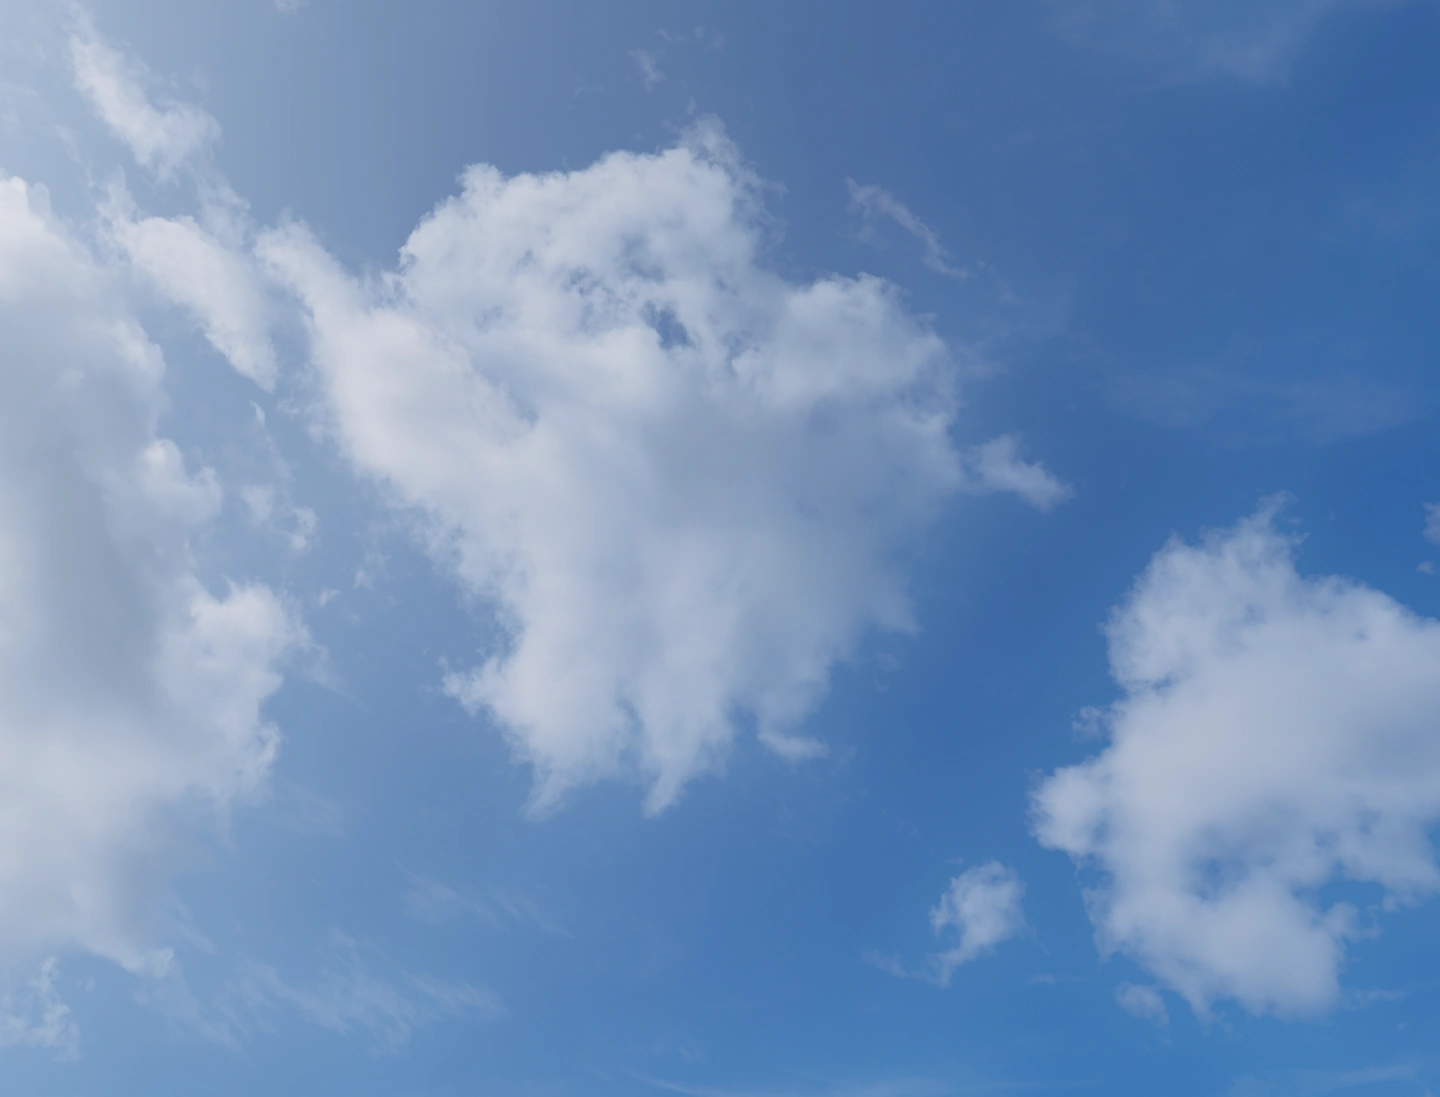
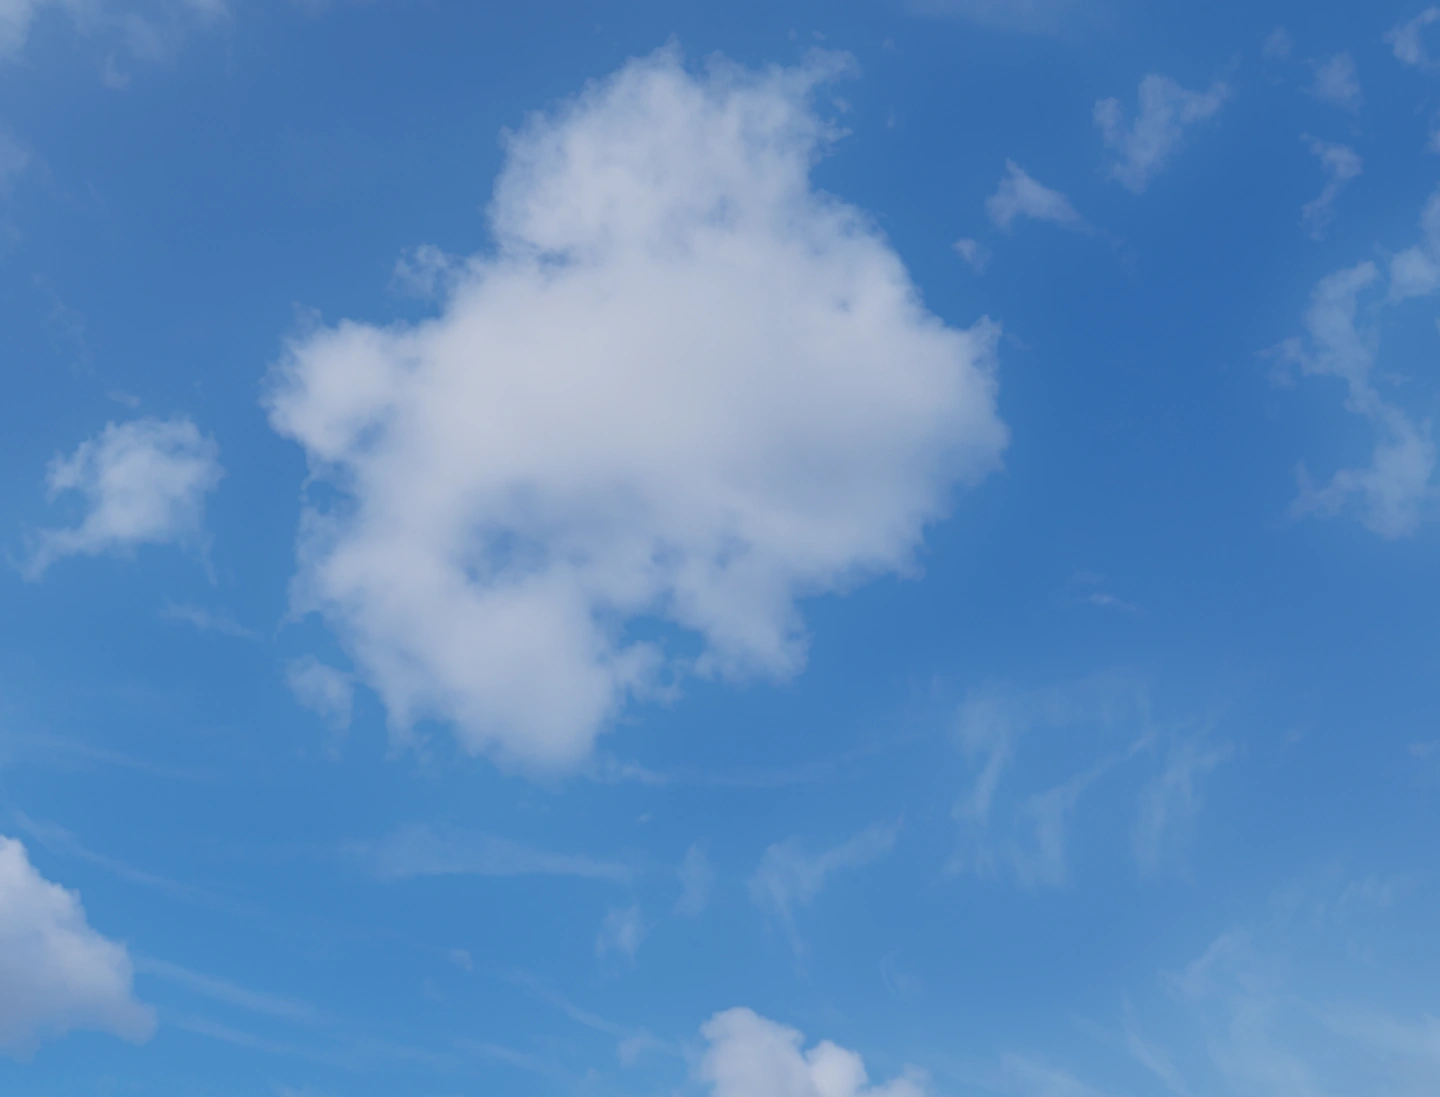
Lab: climb tenki round 1
Claude-Session: https://claude.ai/code/session_01RqENhngNCzDFmJWDZueXGV

diff --git a/src/app/lab/tenki/tenkiEngine.js b/src/app/lab/tenki/tenkiEngine.js
@@ -37,7 +37,8 @@ import { createFilm, FILM_PRESETS } from "../_kit/film";
 // cumulus, is the default sky; 0 clear low sun, 1 cirrus, 2 mackerel,
 // 3 fair-weather cumulus); ?t=7..18.5 holds the hour; ?still=1 skips the
 // reveal; ?grain=0 for static grain; ?raw=1 the light without the film;
-// ?dbg=1 grey albedo, 2 sun visibility, 3 sun only, 4 albedo.
+// ?dbg=1 grey albedo, 2 sun visibility, 3 sun only, 4 albedo, 5 the light on
+// the clouds.
 
 const BASE = "/lab/tenki/";
 const SKY_FILES = ["clear", "cirrus", "mackerel", "cumulus", "tower"];
@@ -68,6 +69,22 @@ const AUREOLE = 0.6;
 const CLOUD_WARM = 2;
 const CLOUD_FILL = 0.25;
 const CLOUD_SKY = [0.78, 0.97, 1.32];
+// A cloud with form (herb-ref 3): its sunlit side in the beam, at a scene
+// value the film's shoulder carries to ~0.93 (CLOUD_SUN, through the soft
+// shoulder at CLOUD_KNEE); its shade side and base in the zenith's blue
+// skylight (CLOUD_SHADE x CLOUD_BASE); CLOUD_TAU how fast the beam is used up
+// going into the body; CLOUD_AIR the light a lit cloud lends the air round it.
+// FORM: how far each sky takes it (a veiled sun leaves its clouds flatter).
+const CLOUD_SUN = 2.0;
+const CLOUD_KNEE = 1.5;
+const CLOUD_SHADE = 0.24;
+const CLOUD_BASE = [0.55, 0.86, 1.7];
+const CLOUD_TAU = 3.4;
+const CLOUD_AIR = 0.05;
+const FORM = { clear: 1, cirrus: 0.6, mackerel: 0.35, cumulus: 1, tower: 1 };
+// Where each sky's haze ends and its cloud begins, in the picture's red / blue:
+// the fair-weather sky is milky blue between its cumulus, the tower sky clean.
+const MASK = { clear: [0.5, 0.75], cirrus: [0.6, 0.95], mackerel: [0.6, 0.92], cumulus: [0.72, 0.97], tower: [0.45, 0.86] };
 // The HDRIs are open-field skies. Lying in a residential street, the pole
 // sees the sun but not the whole sky: houses, wires and trees take the lower
 // band of it (a sky-view factor of ~0.6 for a vertical face in a street of
@@ -219,8 +236,11 @@ uniform vec3 uOldSun;     // the photo's own sun and sky colours (luminance 1)
 uniform vec3 uOldSky;
 uniform vec3 uVeil;       // the lens's veiling glare in the photograph (linear)
 uniform vec3 uKeyDir;     // the dominant sun now (camera space), for the clouds
-uniform vec3 uCloudTint;  // cloud colour now / under a high sun
-uniform float uRim;       // strength of the sun side of each cloud
+uniform vec3 uCloudSun;   // the beam on a cloud's sunlit side (scene units)
+uniform vec3 uCloudSky;   // the blue skylight on its shade side and base
+uniform vec3 uCloudFlat;  // a flat cloud's tint (a veiled sun)
+uniform vec4 uCloudForm;  // optical depth, highlight shoulder, form, air glow
+uniform vec2 uCloudMask;  // red / blue of the sky picture: haze below, cloud above
 uniform float uSkyDim;    // the blue sky's light now / at the recorded hour
 uniform float uExpo;      // reveal exposure, linear factor
 uniform float uLinearOut;
@@ -294,10 +314,17 @@ vec2 skyUv(vec3 ds) {
   return vec2(0.5) + vec2(ds.x / -ds.z, -ds.y / -ds.z) * uFx / uSize / uMargin;
 }
 
-// how much of a sky pixel is cloud: white against the polarised cobalt
+// how much of a sky pixel is cloud: white against the polarised cobalt (each
+// sky says where its haze ends and its cloud begins)
 float cloudAt(vec2 su, float lod) {
   vec3 v = textureLod(uSky0, su, lod).rgb * uSkyK.x + textureLod(uSky1, su, lod).rgb * uSkyK.y;
-  return smoothstep(0.42, 0.86, v.r / max(v.b, 1e-3));
+  return smoothstep(uCloudMask.x, uCloudMask.y, v.r / max(v.b, 1e-3));
+}
+
+// the sky picture's brightness (scene units), a little blurred
+float lumAt(vec2 su, float lod) {
+  vec3 v = decodeSky(textureLod(uSky0, su, lod).rgb) * uSkyK.x + decodeSky(textureLod(uSky1, su, lod).rgb) * uSkyK.y;
+  return dot(v, vec3(0.2126, 0.7152, 0.0722));
 }
 
 void main() {
@@ -309,29 +336,62 @@ void main() {
   vec3 ds = rot(d, uUp, uDrift);
   vec2 su = clamp(skyUv(ds), vec2(0.001), vec2(0.999));
   vec3 sky = decodeSky(texture(uSky0, su).rgb) * uSkyK.x + decodeSky(texture(uSky1, su).rgb) * uSkyK.y;
-  // the clouds take the hour's sun: the side of each cloud that faces it
-  // lifts in the sun's colour, the side away from it falls to skylight blue
-  {
+  // The clouds are lit, not pasted: each is a body the hour's sun falls on.
+  // Its light is marched through the cloud field toward the sun (in the sky
+  // picture's own plane, the way a cumulus shades itself), so the side that
+  // faces the sun takes the beam in its colour and the far side and the base
+  // fall to the blue zenith skylight. The picture's own drawing is kept as
+  // relative detail, and the tops roll into a soft shoulder that glows but
+  // never clips. (Only where there is cloud, and sky to see it through.)
+  vec4 f = texture(uFg, pu);
+  // a soft edge: the cloud's own feathering, not a cut-out
+  float c = 0.5 * (cloudAt(su, 0.0) + cloudAt(su, 1.5));
+  // how deep in the body: the inside of a big cloud sees less of the sky
+  float body = cloudAt(su, 5.0);
+  if (f.a > 0.998 || c + body < 0.002) {
+    sky *= uSkyDim;
+  } else {
     vec3 Ls = rot(uKeyDir, uUp, uDrift);
     vec2 sb = skyUv(normalize(ds + 0.04 * (Ls - ds * dot(ds, Ls))));
     vec2 toSun = sb - skyUv(ds);
     toSun /= max(length(toSun), 1e-6);
-    vec2 o = vec2(5.0) / vec2(textureSize(uSky0, 0));
-    float c = cloudAt(su, 0.0);
-    vec2 g = vec2(cloudAt(su + vec2(o.x, 0.0), 2.0) - cloudAt(su - vec2(o.x, 0.0), 2.0),
-                  cloudAt(su + vec2(0.0, o.y), 2.0) - cloudAt(su - vec2(0.0, o.y), 2.0));
-    float face = -dot(g, toSun) * 3.0;
-    float lit = clamp(face, 0.0, 1.0);
-    float shd = clamp(-face, 0.0, 1.0);
-    vec3 cl = sky * uCloudTint;
-    cl *= 1.0 + uRim * lit * normalize(uCloudTint) * 1.732;
-    cl *= mix(vec3(1.0), vec3(0.78, 0.86, 1.0), uRim * shd);
-    // the blue between them is skylight, and dims with it; the clouds are
-    // lit by the sun, and go with the key
-    sky = mix(sky * uSkyDim, cl, c);
+    // the light into a cumulus is the sun's, and the bright sky above it: the
+    // march leans toward the zenith, so the base is the darkest part of it
+    vec2 toUp = skyUv(normalize(ds + 0.04 * (uUp - ds * dot(ds, uUp)))) - skyUv(ds);
+    vec2 toLight = normalize(toSun + 0.6 * toUp / max(length(toUp), 1e-6));
+    float tau = 0.0;
+    for (int i = 0; i < 16; i++) {
+      float t = (float(i) + 0.5) / 16.0;
+      tau += cloudAt(su + toLight * (0.004 + 0.34 * t), 2.0 + 1.5 * t);
+    }
+    // a wisp is thin: the beam goes through it and it has no shade side
+    float thick = smoothstep(0.3, 0.85, cloudAt(su, 3.0));
+    float T = mix(1.0, exp(-uCloudForm.x * tau / 16.0), thick);
+    const vec3 LW = vec3(0.2126, 0.7152, 0.0722);
+    vec3 sl = decodeSky(textureLod(uSky0, su, 4.0).rgb) * uSkyK.x + decodeSky(textureLod(uSky1, su, 4.0).rgb) * uSkyK.y;
+    float lm = max(dot(sl, LW), 1e-4);
+    float detail = pow(clamp(dot(sky, LW) / lm, 0.7, 1.6), 1.2);
+    // and each lobe of it its own lit side: the slope of the cloud's own
+    // brightness toward the sun, a few texels across
+    vec2 o = vec2(6.0) / vec2(textureSize(uSky0, 0));
+    vec2 g = vec2(lumAt(su + vec2(o.x, 0.0), 2.0) - lumAt(su - vec2(o.x, 0.0), 2.0),
+                  lumAt(su + vec2(0.0, o.y), 2.0) - lumAt(su - vec2(0.0, o.y), 2.0)) / lm;
+    vec2 g2 = vec2(lumAt(su + vec2(3.0 * o.x, 0.0), 3.5) - lumAt(su - vec2(3.0 * o.x, 0.0), 3.5),
+                   lumAt(su + vec2(0.0, 3.0 * o.y), 3.5) - lumAt(su - vec2(0.0, 3.0 * o.y), 3.5)) / lm;
+    float lobe = clamp(-dot(4.0 * g + 3.0 * g2, toSun), -1.0, 1.0) * c * (0.4 + 0.6 * thick);
+    vec3 cl = detail * (uCloudSky * (1.0 - 0.35 * body) * (1.0 - 0.4 * lobe) + uCloudSun * (0.08 + T) * (1.0 + 0.9 * lobe));
+    // a soft highlight shoulder: the sunlit tops approach the film's near-white
+    float Lc = dot(cl, LW);
+    cl *= pow(1.0 + pow(Lc / uCloudForm.y, 4.0), -0.25);
+    // the old flat cloud, for a sky that asks for less form (a veiled sun)
+    cl = mix(sky * uCloudFlat, cl, uCloudForm.z);
+    // the blue between them is skylight, and dims with it; round a lit cloud
+    // it takes a breath of the cloud's light (the air in front of it)
+    vec3 blue = sky * uSkyDim + uCloudSun * uCloudForm.w * body * (1.0 - c);
+    sky = mix(blue, cl, c);
+    if (abs(uDbg - 5.0) < 0.5) sky = vec3(T * c * (1.0 + 0.9 * lobe) * 0.5);
   }
 
-  vec4 f = texture(uFg, pu);
   vec3 col = sky;
   if (f.a > 0.002) {
     vec4 nd = texture(uNd, pu);
@@ -768,6 +828,11 @@ export async function createTenki(host, { embedded = false } = {}) {
   const spread = new Float32Array(2);
   const keyDir = [0, 1, 0];
   const cloudTint = [1, 1, 1];
+  const cloudSun = [1, 1, 1];
+  const cloudSky = [1, 1, 1];
+  const cloudForm = [CLOUD_TAU, CLOUD_KNEE, 1, CLOUD_AIR];
+  const baseL = dot3(CLOUD_BASE, LUM);
+  const cloudMask = [0.45, 0.86];
   const lightAt = (pos, hr) => {
     const p = clamp(pos, 0, N - 1);
     const i0 = Math.min(N - 2, Math.floor(p));
@@ -835,6 +900,14 @@ export async function createTenki(host, { embedded = false } = {}) {
     const ct = trel.map((v) => (v / trl) ** CLOUD_WARM);
     const ctl = dot3(ct, LUM);
     for (let c = 0; c < 3; c++) cloudTint[c] = ((1 - CLOUD_FILL) * (ct[c] / ctl) * Math.pow(rl, 0.6) + CLOUD_FILL * CLOUD_SKY[c] * skyDim) / ((1 - CLOUD_FILL) + CLOUD_FILL * CLOUD_SKY[c]);
+    // the lit cloud: the beam in its colour on the sun side, the zenith blue
+    // (dimming with the skylight) in the shade and under the base
+    for (let c = 0; c < 3; c++) {
+      cloudSun[c] = CLOUD_SUN * expo * (ct[c] / ctl) * Math.pow(rl, 0.6);
+      cloudSky[c] = CLOUD_SHADE * expo * skyDim * (CLOUD_BASE[c] / baseL);
+    }
+    cloudForm[2] = (1 - w) * (FORM[a.name] ?? 1) + w * (FORM[b.name] ?? 1);
+    for (let i = 0; i < 2; i++) cloudMask[i] = (1 - w) * (MASK[a.name] ?? MASK.tower)[i] + w * (MASK[b.name] ?? MASK.tower)[i];
     // sky: decoded x = L K (median .5); shown at the photo's sky median, times
     // the exposure; the blue of it dims with the skylight
     const gs = (data.skyMed / 0.5) * expo;
@@ -942,8 +1015,11 @@ export async function createTenki(host, { embedded = false } = {}) {
     gl.uniform3fv(u.uOldSun, oldSun);
     gl.uniform3fv(u.uOldSky, oldSky);
     gl.uniform3fv(u.uKeyDir, keyDir);
-    gl.uniform3fv(u.uCloudTint, cloudTint);
-    gl.uniform1f(u.uRim, RIM);
+    gl.uniform3fv(u.uCloudSun, cloudSun);
+    gl.uniform3fv(u.uCloudSky, cloudSky);
+    gl.uniform3fv(u.uCloudFlat, cloudTint);
+    gl.uniform4fv(u.uCloudForm, cloudForm);
+    gl.uniform2fv(u.uCloudMask, cloudMask);
     gl.uniform1f(u.uSkyDim, lt.skyDim);
     gl.uniform1f(u.uDbg, dbg);
     gl.uniform1f(u.uCal, cal);
@@ -1091,9 +1167,6 @@ export async function createTenki(host, { embedded = false } = {}) {
   };
 }
 
-// The sun side of each cloud: how far it lifts toward the sun's colour.
-const RIM = 1.0;
-
 // The print: Superia-ish summer, developed from a linear render. The scene
 // already sits on the photo's own exposure, so the curve is gentle; the sky's
 // depth comes from the bake's polariser and blueDepth here.
@@ -1108,7 +1181,10 @@ const FILM = {
   halation: 0.26,
   halationThreshold: 0.85,
   halationLocal: 0,
-  bloom: 0.12,
+  // Pro-Mist on the highlights only: the lit cloud tops spread into the blue
+  // and over the wires in front of them; the sky keeps its own drawing
+  bloom: 0.4,
+  bloomThreshold: 0.75,
   softness: 0.45,
   toe: 0.05,
   grain: 0.32,

diff --git a/tools/depth/bakes/tenki/light.py b/tools/depth/bakes/tenki/light.py
@@ -1,5 +1,5 @@
 # Tenki, step 4: each recorded sky, as seen through the photo's lens and as light.
-#   python3 -I light.py OUTDIR name hdr yaw [res]
+#   python3 -I light.py OUTDIR name hdr yaw [res] [pitch zoom]
 # Frame: "heading" world, y up, +z the camera's horizontal heading (the HDRI is
 # turned by yaw so that lon = yaw is straight ahead).
 # Writes OUTDIR/<name>.png (the sky through the lens, 1.1x margin in tan space,
@@ -13,6 +13,11 @@ sys.path.insert(0, os.path.dirname(os.path.abspath(__file__)))
 from cam import *
 out, name, fn, yaw = sys.argv[1], sys.argv[2], sys.argv[3], float(sys.argv[4])
 res = int(sys.argv[5]) if len(sys.argv) > 5 else 1440
+# Aim of the sky picture only (the light is the HDRI's at this yaw): pitch (deg,
+# + looks higher) and zoom (>1 narrows the lens onto the sky), so one cloud can
+# be put behind the pole's crown at the size it needs to carry the frame.
+PITCH = float(sys.argv[6]) if len(sys.argv) > 6 else 0.0
+ZOOM = float(sys.argv[7]) if len(sys.argv) > 7 else 1.0
 MARGIN = 1.1
 os.makedirs(out, exist_ok=True)
 eq = load_hdr(fn)
@@ -70,7 +75,9 @@ sunE = sunE * wb; Esh = Esh * wb[None]; Eh = Eh * wb
 
 # ---- the sky through the lens (full-res source)
 Ws, Hs = res, int(round(res * H0 / W0))
-d = cam_dirs(Ws, Hs, MARGIN)
+d = cam_dirs(Ws, Hs, MARGIN / ZOOM)
+pa = np.radians(PITCH)
+d = d @ np.array([[1, 0, 0], [0, np.cos(pa), -np.sin(pa)], [0, np.sin(pa), np.cos(pa)]]).T
 M = cam_to_world_basis(yaw)
 im = sample(eq, d @ M.T, cv2.INTER_CUBIC)
 im = np.maximum(im, 0) * wb
@@ -107,7 +114,7 @@ x = (sky_part + cloud) * g['expo']
 enc = (x / (1 + x)) ** (1 / 2.2)
 cv2.imwrite(os.path.join(out, name + '.png'), np.round(np.clip(enc, 0, 1) * 65535).astype(np.uint16)[..., ::-1])
 pct = [float(np.percentile(Lf * K, q)) for q in (1, 50, 99, 99.9, 100)]
-info = dict(name=name, hdr=os.path.basename(fn), yaw=yaw, K=K, skyMed=med, sun=sdir.tolist(), sunE=sunE.tolist(),
+info = dict(name=name, hdr=os.path.basename(fn), yaw=yaw, pitch=PITCH, zoom=ZOOM, K=K, skyMed=med, sun=sdir.tolist(), sunE=sunE.tolist(),
             sunSpread=np.degrees(spread), sunAlt=float(np.degrees(np.arcsin(sdir[1]))), sh=Esh.tolist(), Eh=Eh.tolist(),
             framePct=pct, margin=MARGIN, res=[Ws, Hs])
 json.dump(info, open(os.path.join(out, name + '.json'), 'w'), indent=1)
